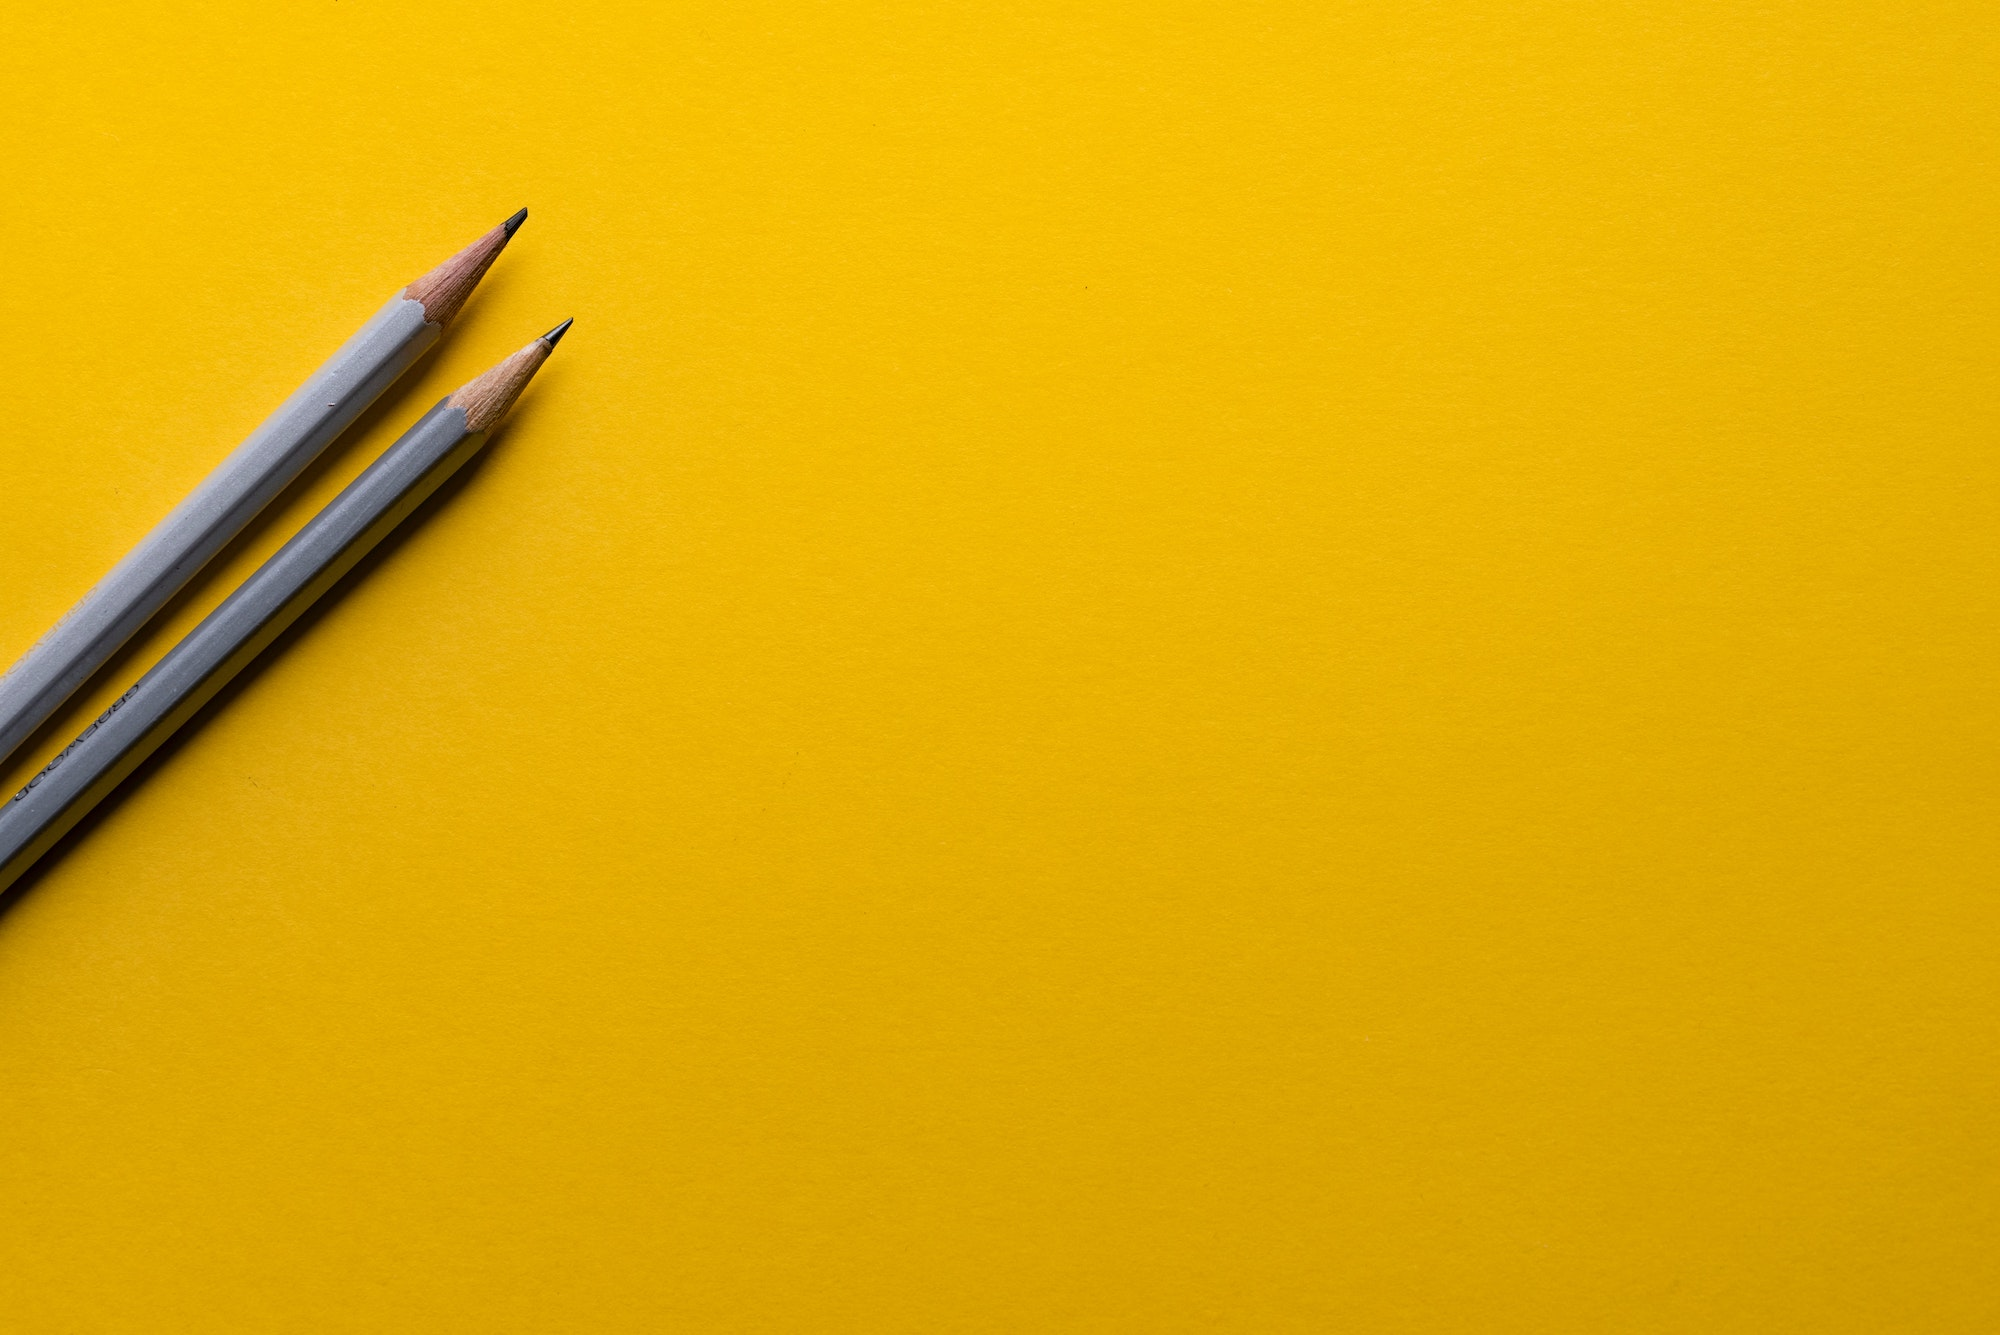
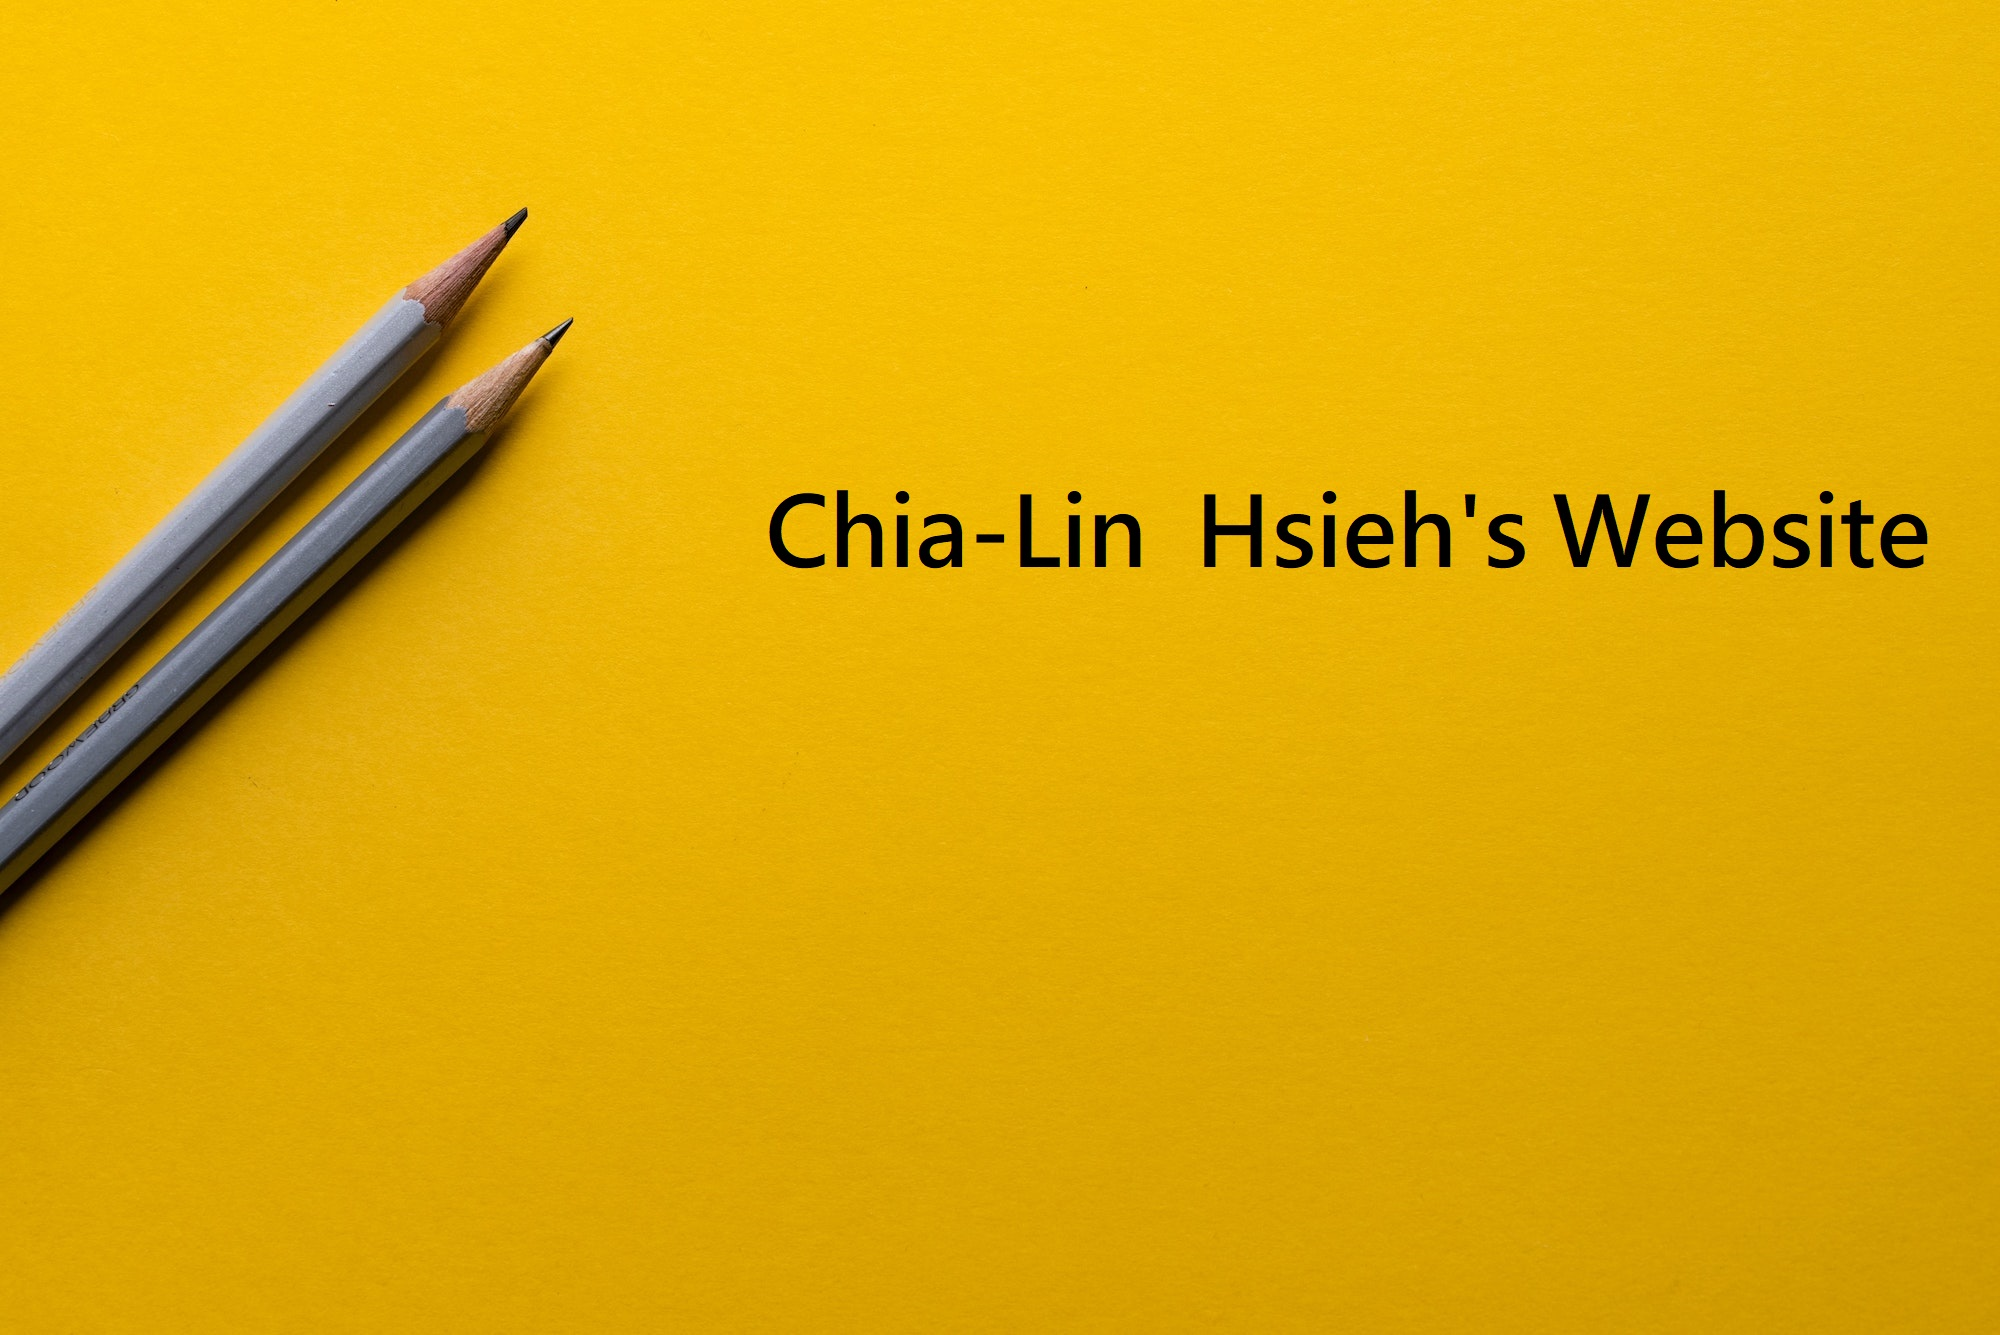
Index content update

Changed region(s): [[0.372, 0.3685, 0.961, 0.43]]

diff --git a/app/templates/index.html b/app/templates/index.html
@@ -63,6 +63,29 @@
             #footer {
                 text-align: center;
             }
+
+            .left, .right, .mid {
+                float: left;
+                padding: 8px;
+                margin: 10px;
+                background: #97bac5;
+                font-size: 32px;
+            }
+
+            .left {
+                width: 360px;
+                height: 100px;
+            }
+
+            .right {
+                width: 360px;
+                height: 100px;
+            }
+            .mid {
+                width: 360px;
+                height: 100px;
+            }
+
         </style>
         <body>
 
@@ -81,12 +104,13 @@
 
     </header>
 
-    <div style="float:middle"><h1>Index</h1></div>
-    <img src="../static/images/index_bg.jpg alt="Git Workflow" class="center" width="1100" height="400">
+    <img src="../static/images/index_bg.jpg" alt="bg" class="center" width="1150" height="600">
     <div id="main_menu" class="blue make2Bigger">
-        <h1>Chia-Lin's HomePage</h1>
     </div>
+        <div class="left"><h2 align="center"> <a href="https://github.com/ChiaLinz">My Github</a></h2></div>
 
+        <div class="mid"><h2 align="center"><a href="https://www.linkedin.com/in/jeffrey-hsieh-839289144/">My Linkedin</h2></div>
+        <div class="right"><h2 align="center"><a href="mailto:ch35@njit.edu">My Contact Info</h2></div>
 
 
 
